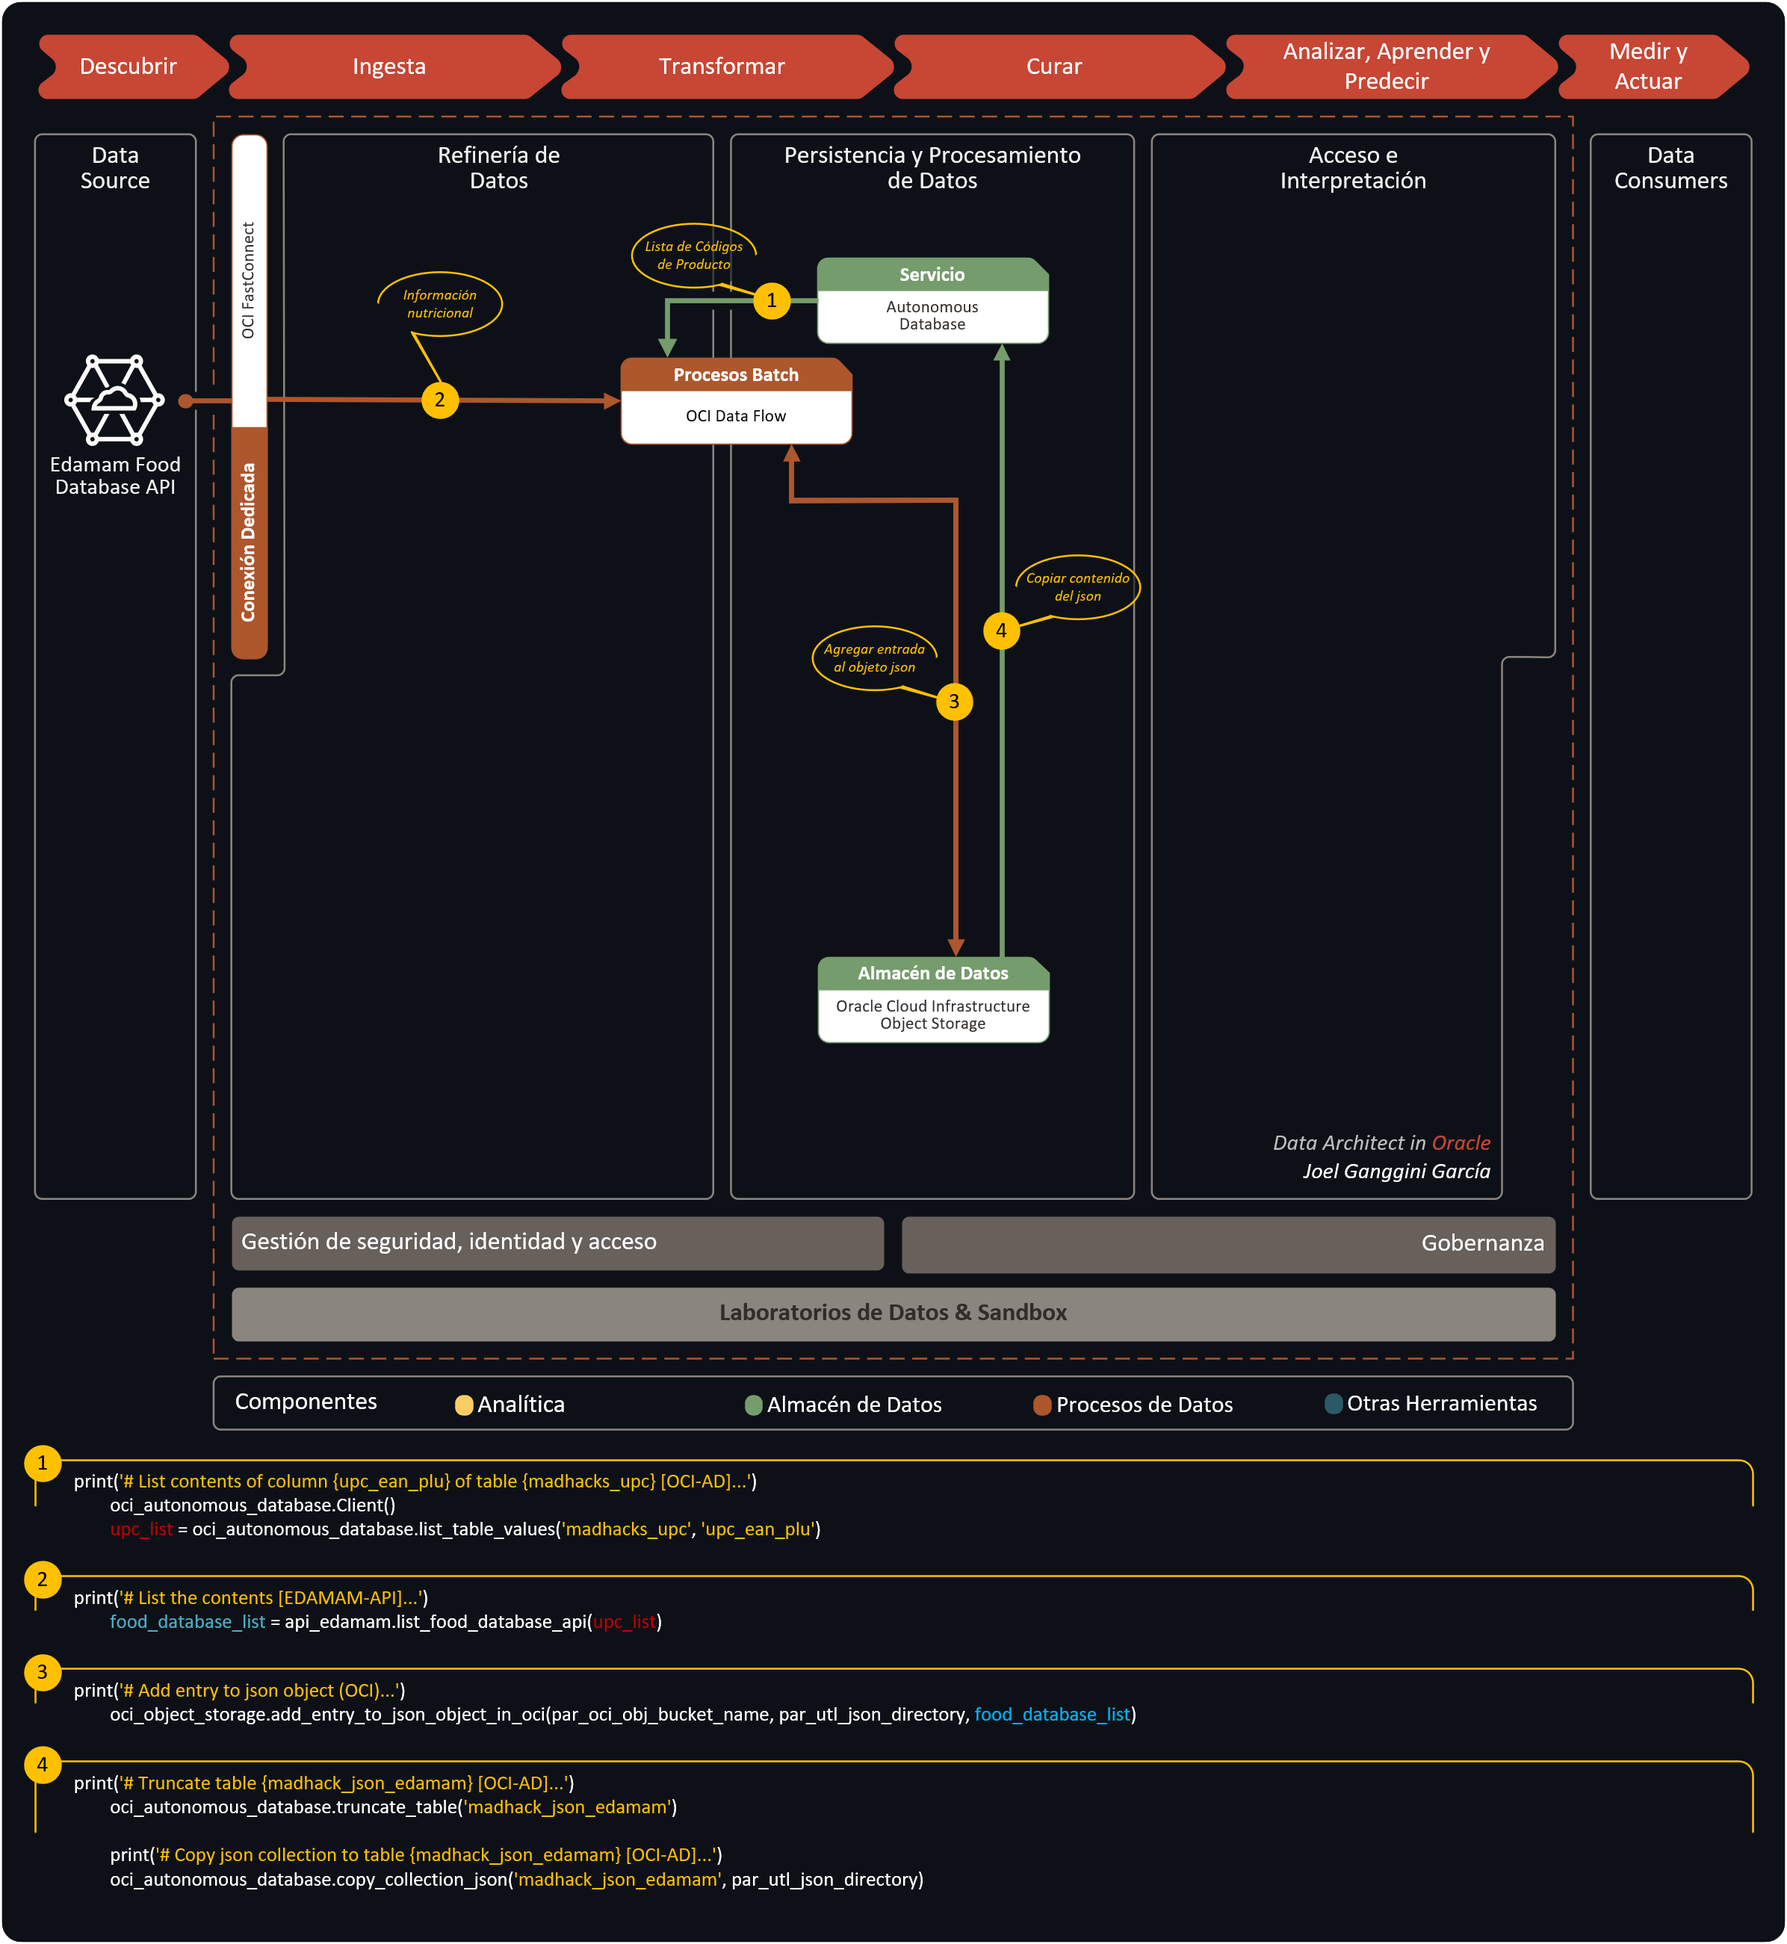
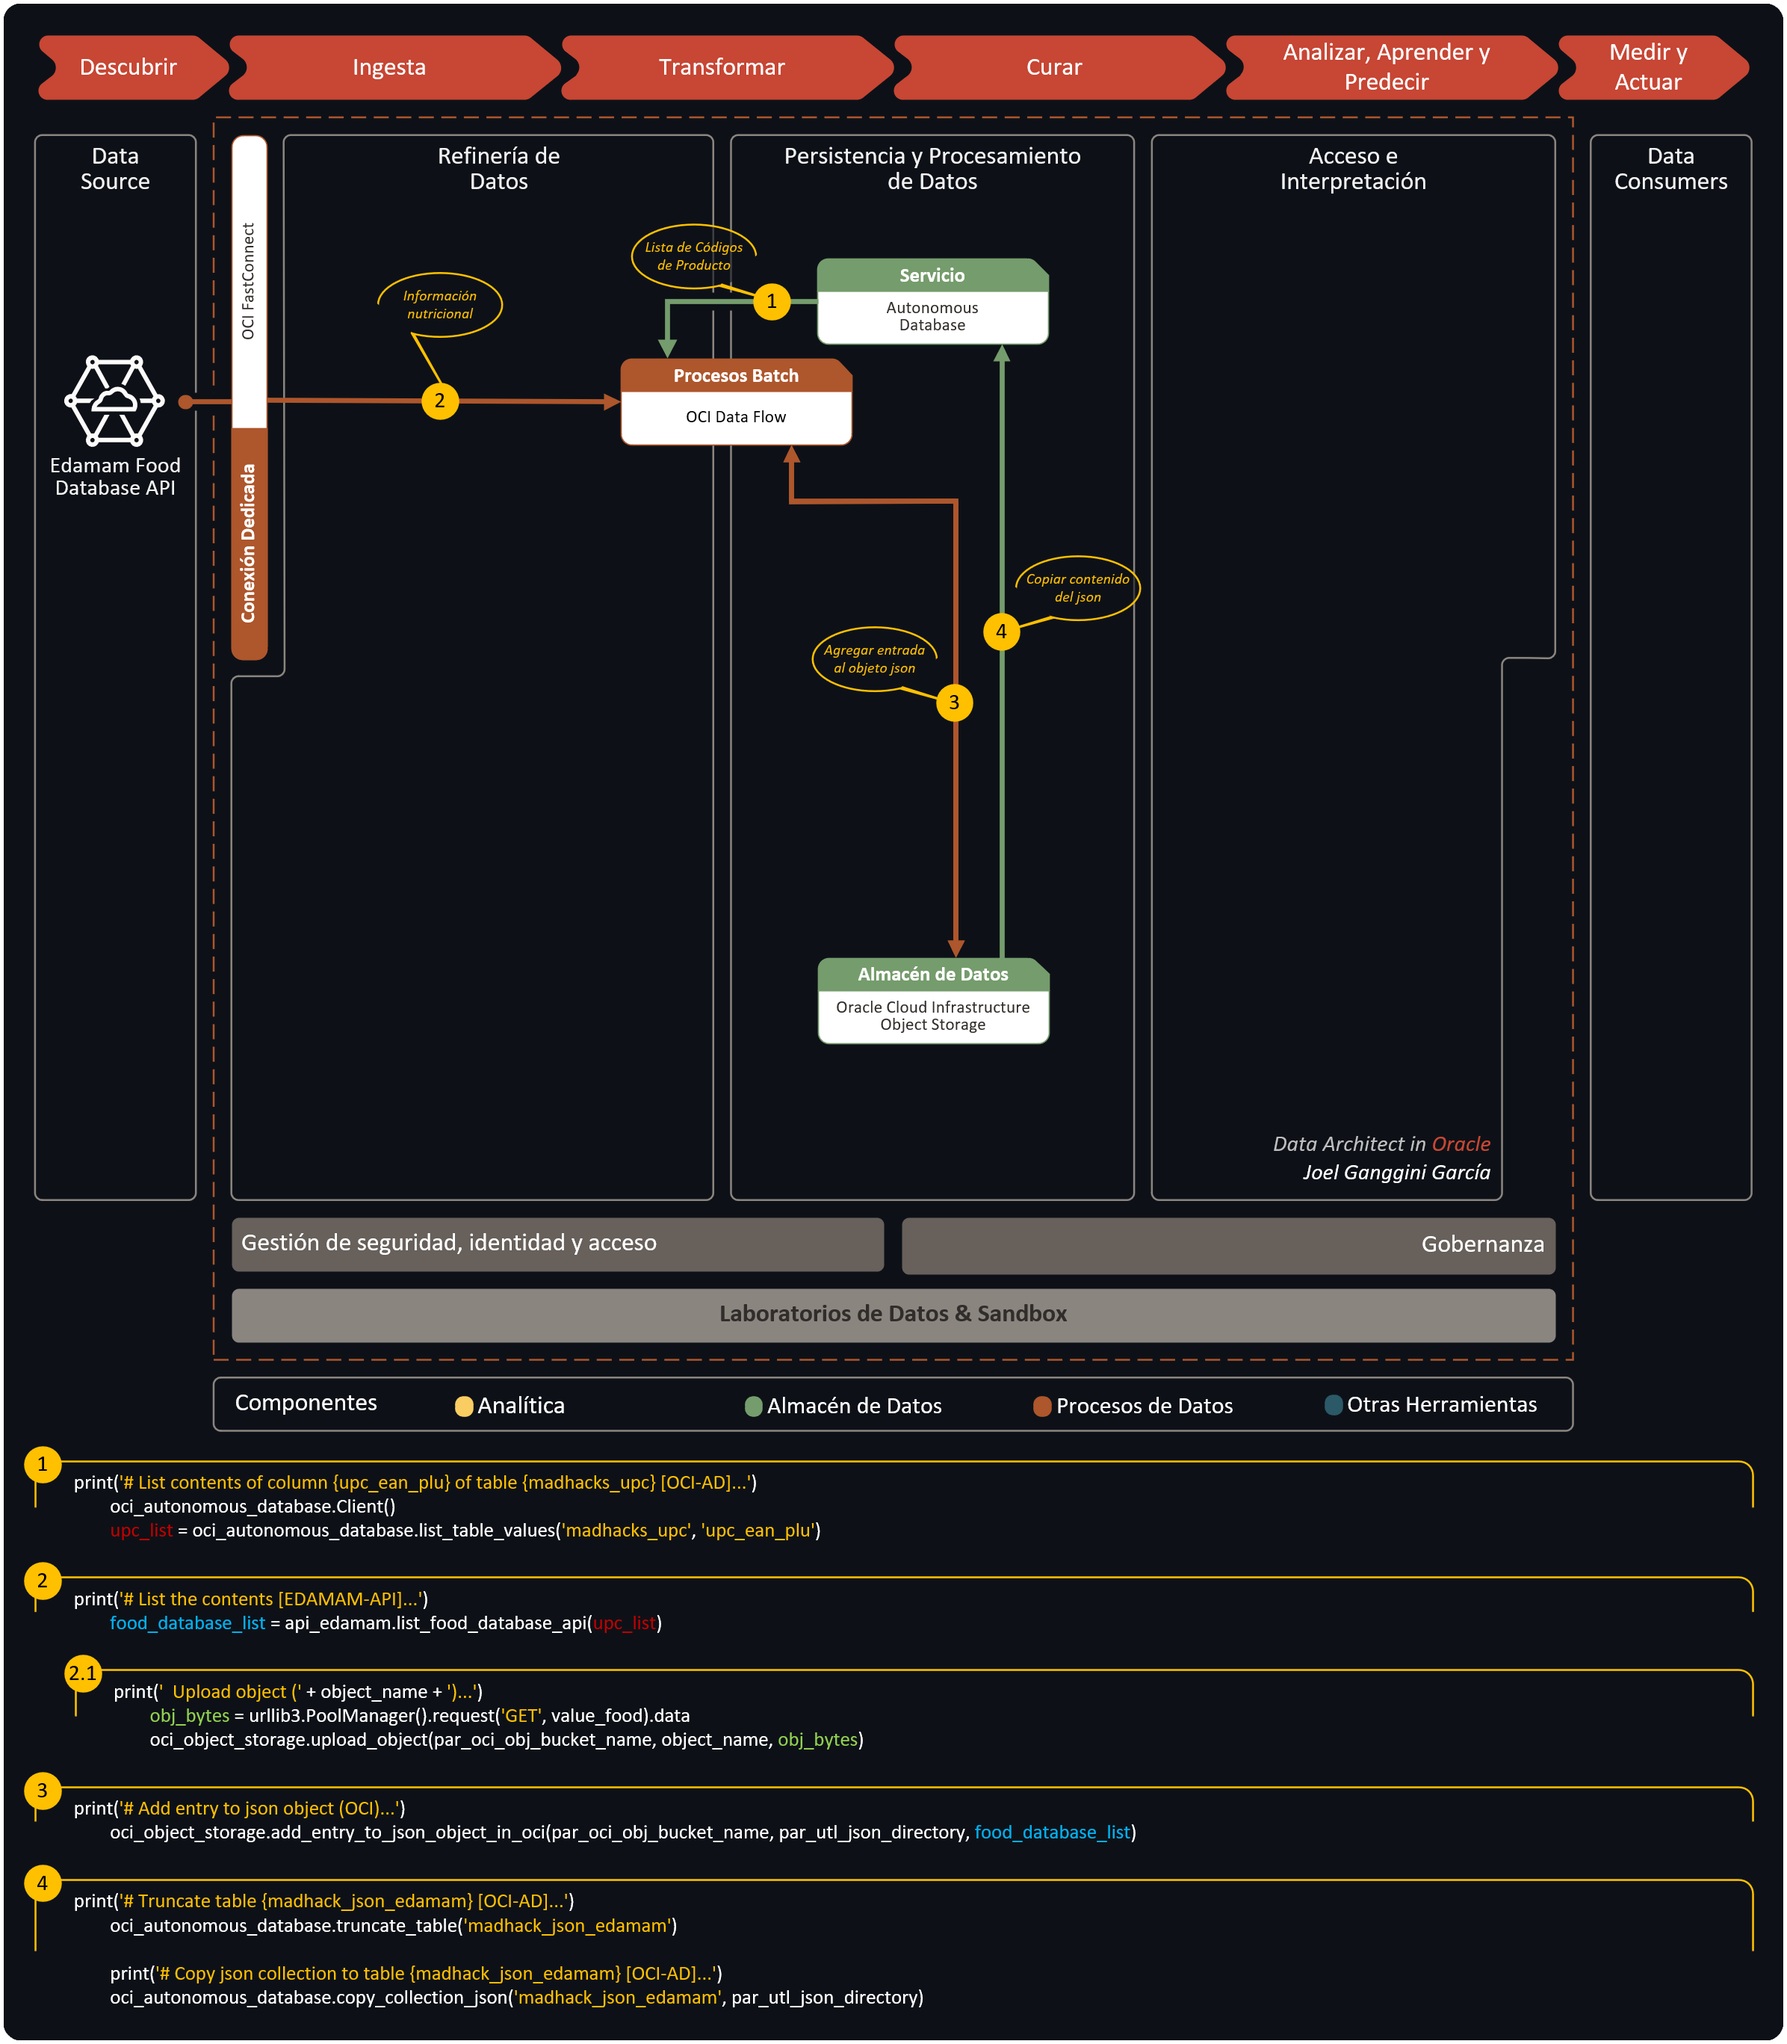
Update

diff --git a/upload-unstructured-data-to-autonomous-database/src/api_edamam.py b/upload-unstructured-data-to-autonomous-database/src/api_edamam.py
@@ -44,6 +44,7 @@ class api_edamam:
                             if(par_oci_obj_ociProfileName =='LOCAL'):
                                 utilities_config.download_object_in_local(value_food, object_name)
 
+                            print('  Upload object (' + object_name + ')...')
                             obj_bytes = urllib3.PoolManager().request('GET', value_food).data
                             oci_object_storage.upload_object(par_oci_obj_bucket_name, object_name, obj_bytes)
 
@@ -80,16 +81,3 @@ class api_edamam:
 
         except Exception as e:
             print(e)
-
-
-
-
-    
-
-    
-
-    
-
-    # Now query the rows back
-
-    

diff --git a/upload-unstructured-data-to-autonomous-database/README.md b/upload-unstructured-data-to-autonomous-database/README.md
@@ -47,13 +47,28 @@
 <!-- Proyecto -->
 ## Proyecto
 
-El siguiente proyecto cubre la necesidad de mover los datos de alta volumetría en formato parquet ubicados en Azure Data Lake Storage Gen2 a OCI Object Storage para dar continuidad a los proyectos en `OCI Lake House`.
+El siguiente proyecto cubre la necesidad:
+<ol>
+    <li>Conectarnos a una API interactuando con Autonomous Database para realizar las consultas a la API enviando una lista de códigos de productos.</li>
+    <li>
+        Listar y preparar los resultados no estructurados en formato JSON enviados por la API.
+        <ul>
+            <li>Subir archivos PNG/JPG de forma recursiva a OCI Object Storage.</li>
+        </ul>
+    </li>
+    <li>Subir un archivo JSON a OCI Object Storage.</li>
+    <li>Subir el archivo publicado en OCI Object Storage a Autonomous Database.</li>
+    <li><a href="#publicar-en-oci-data-flow">Publicar en OCI Data Flow</a></li>
+    <li><a href="#ejecución-en-oci-data-flow">Ejecución en OCI Data Flow</a></li>
+    <li><a href="#referencias">Referencias</a></li>
+    <li><a href="#contacto">Contacto</a></li>
+  </ol>
 
-Para ello les comparto el paso a paso de cómo llegar a hacer estas integraciones rápidas en PySpark gracias a los SDK sin necesidad de realizar mapeos o seguimiento de los directorios existentes.
+Para ello les comparto el paso a paso de cómo llegar a hacer estas integraciones rápidas en PySpark gracias a los.
 
 Otras aplicaciones:
-* Cloud2OCI (`AWS`/`GCP`/`Azure`)
-* OnPremise2OCI (`Cloudera`/`Haddop`)
+* Source (`JDBC`)
+* Target (`Parquet`/`AVRO`)
 
 El siguiente diagrama ilustra esta arquitectura de referencia:
 
@@ -343,10 +358,6 @@ Los SDK y la CLI de Oracle Cloud Infrastructure requieren información de config
     docker run --rm -v ${PWD}:/opt/dataflow -it phx.ocir.io/oracle/dataflow/dependency-packager:latest
     ```
 *   `PowerShell`: Esperamos que termine de generar el zip.
-
-    <p align="center">
-      <img src="img/img-109.gif" width="1000">
-    </p>
 
 *   En el zip `archive.zip` copiamos el directorio `./src` en la ruta `./opt/dataflow/archive.zip/python/lib/python3.6/site-packages/`
 
